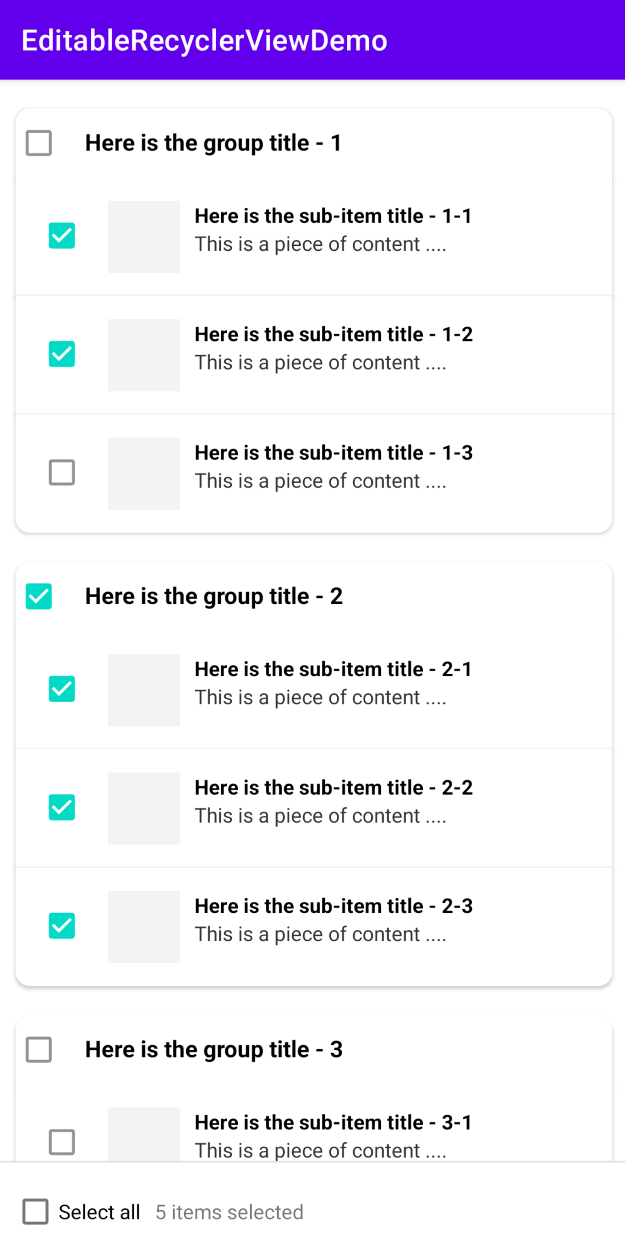
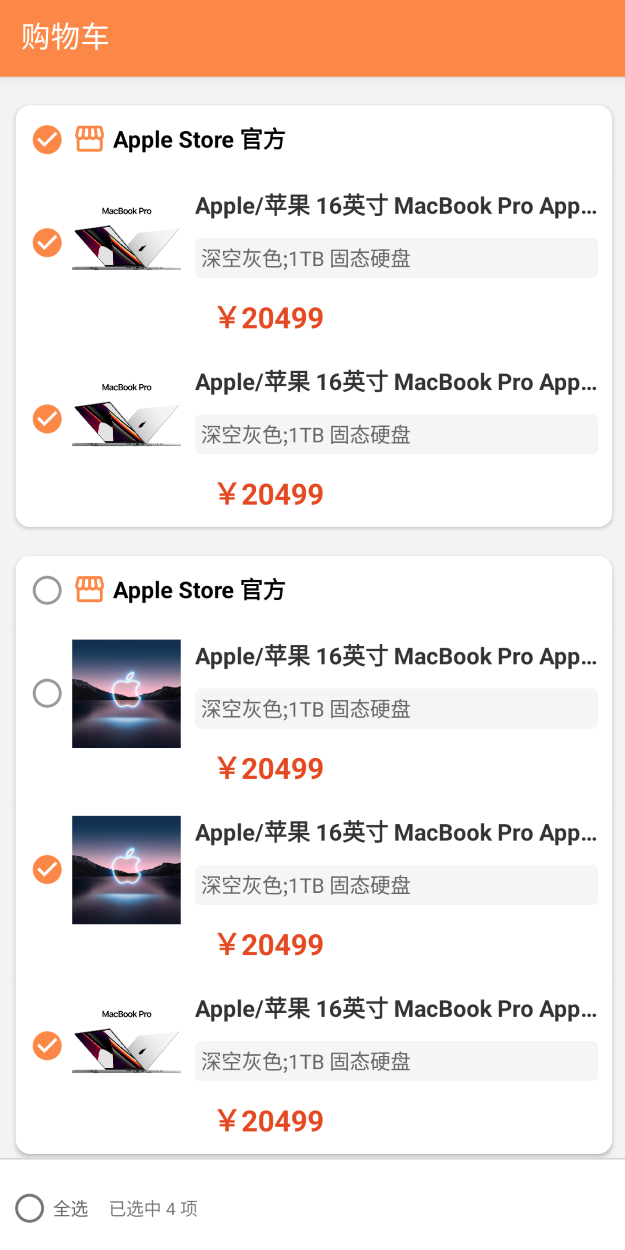
:hammer_and_wrench: 模仿淘宝购物车 UI (学习目的)

diff --git a/app/src/main/java/example/android/editable/group/adapter/GroupSectionEditableAdapter.kt b/app/src/main/java/example/android/editable/group/adapter/GroupSectionEditableAdapter.kt
@@ -1,7 +1,10 @@
+@file:Suppress("SetTextI18n")
+
 package example.android.editable.group.adapter
 
 import android.view.View
 import android.widget.CheckBox
+import android.widget.ImageView
 import android.widget.TextView
 import com.google.android.material.card.MaterialCardView
 import example.android.editable.R
@@ -11,13 +14,14 @@ import example.android.editable.group.data.GroupData
 import example.android.editable.ktx.obtainDimension
 import example.android.editable.ktx.obtainDimensionPixelOffset
 
-class GroupSectionEditableAdapter(
-    // ignore
-) : BaseCardGroupQuickAdapter<GroupData, GroupSectionEditableViewHolder>(
-    R.layout.item_section, R.layout.item_child
-) {
+class GroupSectionEditableAdapter :
+    BaseCardGroupQuickAdapter<GroupData, GroupSectionEditableViewHolder>(
+        R.layout.item_section,
+        R.layout.item_child
+    ) {
 
-    val editModeHandle = object :BaseEditModeHandler<GroupData,GroupSectionEditableViewHolder>(this@GroupSectionEditableAdapter){
+    val editModeHandle = object :
+        BaseEditModeHandler<GroupData, GroupSectionEditableViewHolder>(this@GroupSectionEditableAdapter) {
 
         override fun getCheckBox(helper: GroupSectionEditableViewHolder): CheckBox? {
             return helper.getViewOrNull(R.id.check)
@@ -34,13 +38,16 @@ class GroupSectionEditableAdapter(
     override fun convert(helper: GroupSectionEditableViewHolder, item: GroupData) {
         super.convert(helper, item)
         editModeHandle.convert(helper, item)
-        helper.getViewOrNull<TextView>(R.id.tvChildTitle)?.text = item.name
+        helper.getViewOrNull<ImageView>(R.id.ivCover)?.setImageResource(item.productCover)
+        helper.getViewOrNull<TextView>(R.id.tvProductName)?.text = item.productName
+        helper.getViewOrNull<TextView>(R.id.tvProductType)?.text = item.productType
+        helper.getViewOrNull<TextView>(R.id.tvParentPrice)?.text = "￥${item.productPrice}"
     }
 
     override fun convertHeader(helper: GroupSectionEditableViewHolder, item: GroupData) {
         super.convertHeader(helper, item)
         editModeHandle.convert(helper, item)
-        helper.getViewOrNull<TextView>(R.id.tvSectionTitle)?.text = item.parentTitle
+        helper.getViewOrNull<TextView>(R.id.tvStoreName)?.text = item.storeName
     }
 
     override fun getMaterialCardView(holder: GroupSectionEditableViewHolder): MaterialCardView? {

diff --git a/app/src/main/java/example/android/editable/group/GroupEditableActivity.kt b/app/src/main/java/example/android/editable/group/GroupEditableActivity.kt
@@ -4,12 +4,14 @@ import android.annotation.SuppressLint
 import androidx.appcompat.app.AppCompatActivity
 import android.os.Bundle
 import android.util.Log
+import androidx.recyclerview.widget.DefaultItemAnimator
 import androidx.recyclerview.widget.LinearLayoutManager
 import example.android.editable.R
 import example.android.editable.base.editmode.IEditSelectedListener
 import example.android.editable.debug.SimpleData
 import example.android.editable.group.adapter.GroupSectionEditableAdapter
 import example.android.editable.group.data.GroupData
+import example.android.editable.ktx.obtainString
 import kotlinx.android.synthetic.main.activity_group_editable.*
 
 class GroupEditableActivity : AppCompatActivity() {
@@ -20,7 +22,7 @@ class GroupEditableActivity : AppCompatActivity() {
                 @SuppressLint("SetTextI18n")
                 override fun onSelectedItem(selectedList: List<GroupData>, count: Int) {
                     Log.e("LocalTest", "[onSelectedItem] ==>> ${selectedList.size}")
-                    tvTotalCount?.text = "$count items selected"
+                    tvTotalCount?.text = R.string.items_selected.obtainString(count)
                 }
 
                 override fun onLongClickEnterEditMode() {
@@ -34,12 +36,14 @@ class GroupEditableActivity : AppCompatActivity() {
     override fun onCreate(savedInstanceState: Bundle?) {
         super.onCreate(savedInstanceState)
         setContentView(R.layout.activity_group_editable)
+        title = R.string.cart.obtainString()
         initList()
         loadData()
     }
 
     private fun initList() {
         rvList?.apply {
+            (itemAnimator as DefaultItemAnimator).supportsChangeAnimations = false
             layoutManager = LinearLayoutManager(context)
             adapter = groupSectionEditableAdapter
         }

diff --git a/app/src/main/java/example/android/editable/debug/SimpleData.kt b/app/src/main/java/example/android/editable/debug/SimpleData.kt
@@ -1,25 +1,33 @@
 package example.android.editable.debug
 
+import example.android.editable.R
 import example.android.editable.group.data.GroupData
+import example.android.editable.ktx.obtainString
 
 object SimpleData {
 
     fun getSimpleGroupData(): MutableList<GroupData> {
 
         return mutableListOf<GroupData>().apply {
-            (1..6).forEach { sectionIndex->
+            (1..3).forEach { sectionIndex ->
                 val groupId = "100${sectionIndex}"
                 add(
                     GroupData().also { local ->
                         local.groupId = groupId
-                        local.parentTitle = "Here is the group title - $sectionIndex"
+                        local.storeName = R.string.store_simple_name.obtainString()
                     }
                 )
-                (1..(1..6).random()).forEach {childIndex->
+                (1..(1..3).random()).forEach { childIndex ->
                     add(
                         GroupData().also { local ->
                             local.groupId = groupId
-                            local.name = "Here is the sub-item title - $sectionIndex-$childIndex"
+                            local.productCover = if ((0..2).random() % 2 == 0)
+                                R.drawable.apple1
+                            else
+                                R.drawable.apple2
+                            local.productName = R.string.product_simple_title.obtainString()
+                            local.productType = R.string.product_simple_type.obtainString()
+                            local.productPrice = "20499"
                         }
                     )
                 }

diff --git a/app/src/main/java/example/android/editable/group/data/GroupData.kt b/app/src/main/java/example/android/editable/group/data/GroupData.kt
@@ -1,14 +1,19 @@
 package example.android.editable.group.data
 
+import androidx.annotation.DrawableRes
 import example.android.editable.base.SectionSelectEntity
 
 class GroupData : SectionSelectEntity() {
 
-    var parentTitle: String = ""
+    var storeName: String = ""
 
-    var name: String = ""
+    @DrawableRes
+    var productCover: Int = 0
+    var productName: String = ""
+    var productType: String = ""
+    var productPrice: String = ""
 
     override val isHeader: Boolean
-        get() = parentTitle.isNotEmpty()
+        get() = storeName.isNotEmpty()
 
 }

diff --git a/app/src/main/java/example/android/editable/base/group/BaseCardGroupQuickAdapter.kt b/app/src/main/java/example/android/editable/base/group/BaseCardGroupQuickAdapter.kt
@@ -205,8 +205,6 @@ abstract class BaseCardGroupQuickAdapter<T : GroupEntity, VH : BaseViewHolder> @
         }
         return if (currentItem.isHeader) {
             CARD_TYPE_HEADER
-        } else if ((preItem != null && preItem.isHeader) && ((nextItem != null && nextItem.isHeader) || position == data.size - 1)) {
-            CARD_TYPE_HEADER_AND_FOOTER
         } else if ((nextItem != null && nextItem.isHeader) || position == data.size - 1) {
             CARD_TYPE_FOOTER
         } else {

diff --git a/README.md b/README.md
@@ -1,4 +1,4 @@
-# EditableRecyclerViewDemo
+# 编辑列表案例
 
 > 一个 ***RecyclerView*** 实现类似淘宝购物车分组编辑列表
 
